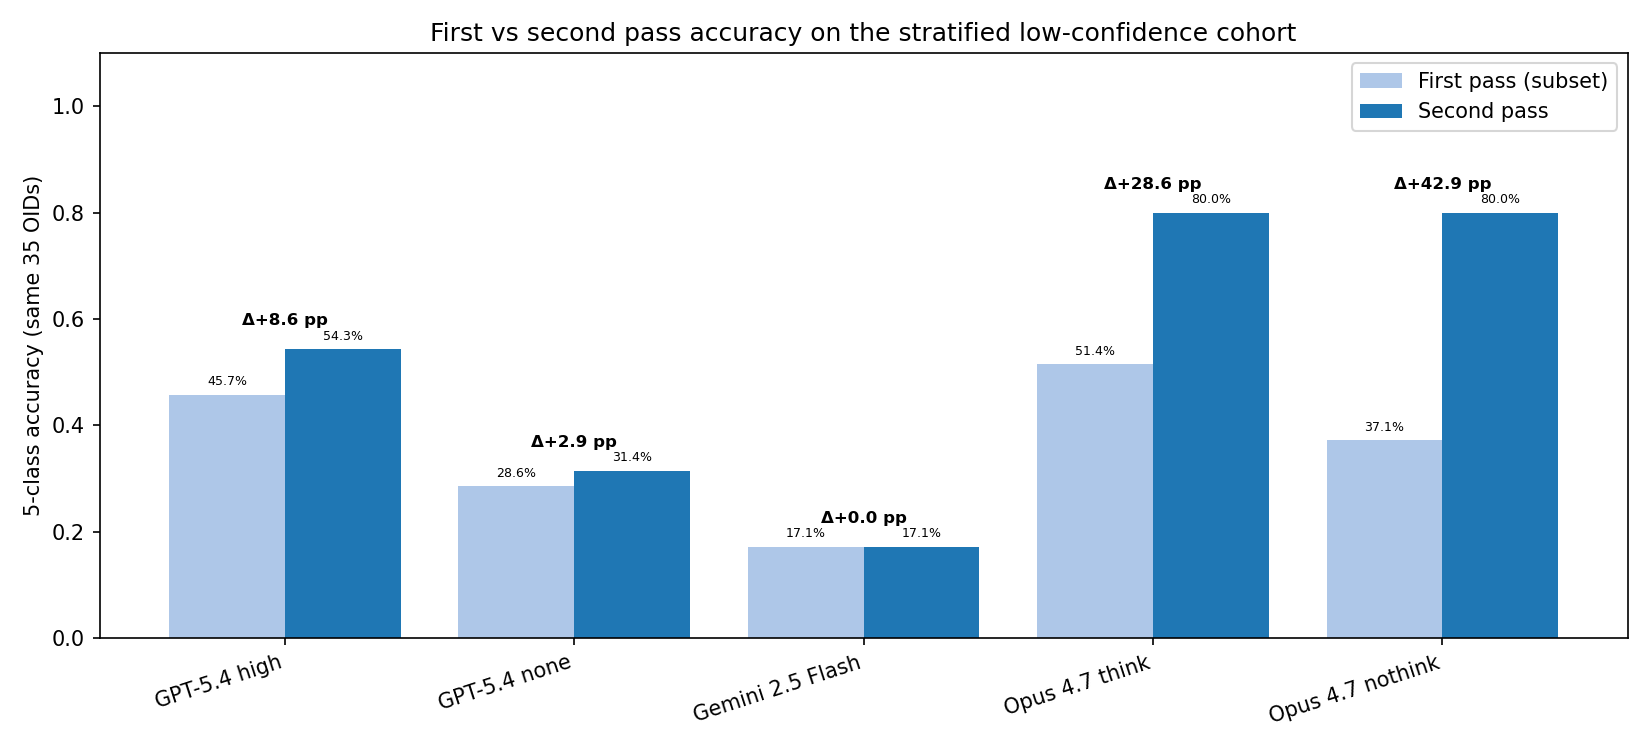
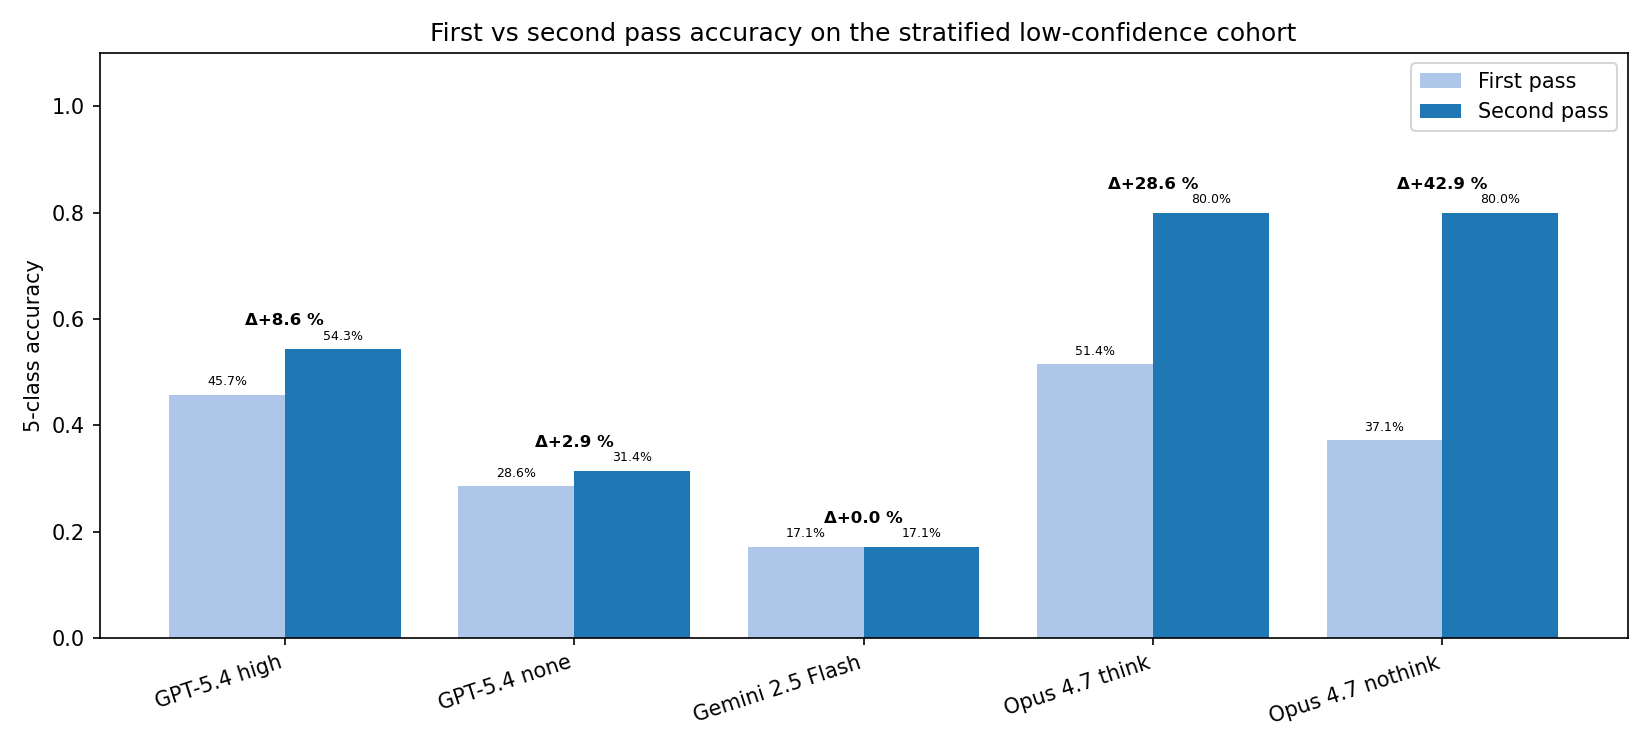
slight update on past reports

diff --git a/viz/generate_benchmark_visualization_tex.py b/viz/generate_benchmark_visualization_tex.py
@@ -1,0 +1,314 @@
+"""Generate a single self-contained `benchmark_visualization.tex` for Overleaf.
+
+Embodies each prompt and raw model output inline inside ``lstlisting`` blocks (no
+external ``.txt``). If text accidentally contains the substring ``\\end{lstlisting}``,
+it is split across chained listings so LaTeX still compiles.
+
+For the **second-rollout** prompt, the shared ``prompts.py`` system text is not
+repeated: it is shown as ``\{general\_prompt\_block\}`` with a footnote pointing
+to the general prompt listing. Only the second-trial addendum and user message
+(including embedded JSON) appear in the listing body.
+
+Literal two-character sequences ``\\n`` / ``\\r`` in that listing are still
+unescaped to real newlines before writing the TeX.
+
+  python -m viz.generate_benchmark_visualization_tex
+
+Writes (repo root): ``benchmark_visualization.tex`` only.
+"""
+from __future__ import annotations
+
+import re
+import sys
+from pathlib import Path
+
+import pandas as pd
+
+PROJECT_ROOT = Path(__file__).resolve().parent.parent
+if str(PROJECT_ROOT) not in sys.path:
+    sys.path.insert(0, str(PROJECT_ROOT))
+
+import prompts as prompts_mod  # noqa: E402
+
+from viz.build_run_folder import _load_jsonl, _reconstruct_prompts  # noqa: E402
+from viz.build_visualization_bundle import MANIFEST_PATH, OID_TARGET, RUNS  # noqa: E402
+
+TEX_PATH = PROJECT_ROOT / "benchmark_visualization.tex"
+
+LST_END = r"\end{lstlisting}"
+
+
+def _slug_label(label: str) -> str:
+    s = re.sub(r"[^a-zA-Z0-9]+", "-", label.strip()).strip("-").lower()
+    return s or "model"
+
+
+def _unescape_literal_newlines(s: str) -> str:
+    """Turn literal ``\\n`` / ``\\r`` (two-char escapes) into real newlines."""
+    if not s:
+        return s
+    return s.replace("\\r\\n", "\n").replace("\\n", "\n").replace("\\r", "\n")
+
+
+def _replace_unicode_dashes(s: str) -> str:
+    """ASCII-safe dashes for listings/pdflatex: unicode dashes and LaTeX ``0--5`` pairs."""
+    if not s:
+        return s
+    s = s.replace("\u2014", " - ")
+    for ch in (
+        "\u2013",
+        "\u2212",
+        "\u2010",
+        "\u2011",
+        "\u2012",
+        "\u2015",
+    ):
+        s = s.replace(ch, "-")
+    # Prompt source uses LaTeX-style en-dash as two hyphens (e.g. rubric "0--5").
+    s = re.sub(r"(\d)--(\d)", r"\1-\2", s)
+    while "  -  " in s:
+        s = s.replace("  -  ", " - ")
+    return s
+
+
+def _normalize_second_rollout_for_tex(s: str) -> str:
+    """Listing-friendly second-rollout text: ASCII dashes; unescape embedded JSON quotes/paths."""
+    if not s:
+        return s
+    s = _replace_unicode_dashes(s)
+    s = s.replace('\\"', '"')
+    pair = "\\\\"
+    while pair in s:
+        s = s.replace(pair, "\\")
+    return s
+
+
+def _embed_lstlisting(text: str, style: str = "prompttxt") -> str:
+    """Wrap UTF-8 text in lstlisting; chain environments if `text` contains LST_END."""
+    parts = text.split(LST_END)
+    inner: list[str] = []
+    for i, part in enumerate(parts):
+        inner.append(part)
+        if i < len(parts) - 1:
+            inner.append(LST_END + f"\n\\begin{{lstlisting}}[style={style}]")
+    body = "".join(inner)
+    return f"\\begin{{lstlisting}}[style={style}]\n{body}\n{LST_END}"
+
+
+def main() -> None:
+    manifest = pd.read_csv(MANIFEST_PATH, low_memory=False)
+    mby = manifest.set_index("oid")
+    if OID_TARGET not in mby.index:
+        raise SystemExit(f"missing {OID_TARGET} in manifest")
+    mrow = mby.loc[OID_TARGET]
+
+    sys_g, usr_g = _reconstruct_prompts(mrow, OID_TARGET, "prompts")
+    prompt_general = _replace_unicode_dashes(
+        "=== SYSTEM (prompts.py) ===\n\n"
+        + sys_g
+        + "\n\n=== USER ===\n\n"
+        + usr_g
+    )
+
+    import importlib
+
+    ab_path = (
+        PROJECT_ROOT
+        / "data_second_roll_out_ablation"
+        / "metadata"
+        / "gpt54_high_n35.csv"
+    )
+    second_rollout_tex_body: str
+    second_rollout_footnotetext: str = ""
+    if ab_path.is_file():
+        ab = pd.read_csv(ab_path, low_memory=False)
+        ex_oid = "ZTF26aargnnc"
+        if ex_oid not in set(ab["oid"].astype(str)):
+            ex_oid = str(ab["oid"].iloc[0])
+        row_ab = ab[ab["oid"] == ex_oid].iloc[0]
+        mod = importlib.import_module("prompts_second_roll_out_ablation")
+        sys_s = mod.SYSTEM_PROMPT
+        meta = mod.manifest_row_to_metadata(row_ab)
+        usr_s = mod.build_user_prompt(ex_oid, meta)
+        note = (
+            f"(Example OID `{ex_oid}` - priors not bundled for `{OID_TARGET}` in-repo; "
+            "same prompt recipe as full second-rollout ablation.)\n\n"
+        )
+        base_sys = prompts_mod.SYSTEM_PROMPT.strip()
+        use_placeholder = (
+            sys_s.startswith(base_sys)
+            and sys_s[len(base_sys) :] == mod.SECOND_ROLL_ADDENDUM
+        )
+        if use_placeholder:
+            listing_only = (
+                note
+                + mod.SECOND_ROLL_ADDENDUM
+                + "\n\n=== USER ===\n\n"
+                + usr_s
+            )
+        else:
+            listing_only = (
+                note
+                + "=== SYSTEM ===\n\n"
+                + sys_s
+                + "\n\n=== USER ===\n\n"
+                + usr_s
+            )
+        prompt_second = _normalize_second_rollout_for_tex(
+            _unescape_literal_newlines(listing_only)
+        )
+        if use_placeholder:
+            second_rollout_tex_body = (
+                r"\noindent\texttt{\{general\_prompt\_block\}}\footnotemark"
+                r"\vspace{0.6em}"
+                "\n"
+                + _embed_lstlisting(prompt_second, "prompttxt")
+            )
+            second_rollout_footnotetext = (
+                r"\footnotetext{Same text as the \texttt{prompts.py} \textbf{system} message in the "
+                r"\textit{General benchmark prompt} listing above (omitted here).}"
+            )
+        else:
+            second_rollout_tex_body = _embed_lstlisting(prompt_second, "prompttxt")
+    else:
+        prompt_second = (
+            f"[missing {ab_path.relative_to(PROJECT_ROOT)} - regenerate second-rollout metadata]"
+        )
+        second_rollout_tex_body = _embed_lstlisting(prompt_second, "prompttxt")
+
+    raw_by_prefix: dict[str, str] = {}
+    for i, (label, rel_run) in enumerate(RUNS):
+        slug = _slug_label(label)
+        prefix = f"{i + 1:02d}_{slug}"
+        jsonl = PROJECT_ROOT / rel_run / "run.jsonl"
+        if not jsonl.is_file():
+            raw_by_prefix[prefix] = f"[missing run.jsonl: {rel_run}]"
+            continue
+        rows = _load_jsonl(jsonl)
+        row = next((r for r in rows if r.get("oid") == OID_TARGET), None)
+        if row is None:
+            raw_by_prefix[prefix] = f"[no row for {OID_TARGET} in {rel_run}]"
+            continue
+        raw = row.get("raw_text") or ""
+        meta_line = (
+            f"(model={row.get('model', '?')}, "
+            f"n_prompt_tokens={row.get('n_prompt_tokens', '?')}, "
+            f"n_answer_tokens={row.get('n_answer_tokens', '?')})\n\n"
+        )
+        raw_by_prefix[prefix] = _replace_unicode_dashes(meta_line + raw)
+
+    lines: list[str] = [
+        r"\documentclass[11pt]{article}",
+        r"\usepackage[utf8]{inputenc}",
+        r"\usepackage[T1]{fontenc}",
+        r"\usepackage[a4paper,margin=0.85in]{geometry}",
+        r"\usepackage{xcolor}",
+        r"\usepackage{listings}",
+        r"\usepackage{titlesec}",
+        r"\titleformat{\section}{\normalfont\Large\bfseries\color{teal!70!black}}{\thesection}{0.6em}{}",
+        r"\titleformat{\subsection}{\normalfont\large\bfseries\color{blue!60!black}}{\thesubsection}{0.5em}{}",
+        r"\usepackage{footnote}",
+        r"\usepackage[hidelinks]{hyperref}",
+        r"\usepackage[most]{tcolorbox}",
+        r"\tcbuselibrary{breakable,listings}",
+        "",
+        r"\lstdefinestyle{prompttxt}{",
+        r"  basicstyle=\ttfamily\footnotesize,",
+        r"  breaklines=true,",
+        r"  breakatwhitespace=false,",
+        r"  columns=fullflexible,",
+        r"  keepspaces=true,",
+        r"  frame=none,",
+        r"}",
+        "",
+        r"\tcbset{",
+        r"  chatturn/.style={",
+        r"    boxrule=0.4pt,",
+        r"    arc=2pt,",
+        r"    left=6pt,",
+        r"    right=6pt,",
+        r"    top=2pt,",
+        r"    bottom=4pt,",
+        r"    titlerule=0pt,",
+        r"    toptitle=0.5mm,",
+        r"    fonttitle=\sffamily\bfseries\small,",
+        r"  },",
+        r"  chatblue/.style={",
+        r"    colback=blue!4!white,",
+        r"    colframe=blue!50!black,",
+        r"    colbacktitle=blue!50!black,",
+        r"    coltitle=white,",
+        r"  },",
+        r"  chatgreen/.style={",
+        r"    colback=green!4!white,",
+        r"    colframe=green!45!black,",
+        r"    colbacktitle=green!40!black,",
+        r"    coltitle=white,",
+        r"  },",
+        r"  chatgrey/.style={",
+        r"    colback=gray!8,",
+        r"    colframe=gray!55,",
+        r"    colbacktitle=gray!55,",
+        r"    coltitle=white,",
+        r"  },",
+        r"}",
+        "",
+        r"\NewTColorBox{chatmsg}{O{blue} m O{}}{",
+        r"  chatturn,",
+        r"  chat#1,",
+        r"  title={#2},",
+        r"  #3",
+        r"}",
+        r"\makesavenoteenv{chatmsg}",
+        "",
+        r"\title{\textbf{Benchmark prompts \& model outputs (single datapoint)}}",
+        r"\author{\texttt{ZTF26aargnnp} \quad (generated by \texttt{viz.generate\_benchmark\_visualization\_tex})}",
+        r"\date{}",
+        "",
+        r"\begin{document}",
+        r"\maketitle",
+        "",
+        r"\begin{abstract}",
+        r"Self-contained \texttt{.tex}: prompts and raw outputs are inlined in \texttt{lstlisting} "
+        r"environments (no external snippet files). Compile with \texttt{pdflatex} or "
+        r"\texttt{xelatex} if outputs contain non-Latin Unicode.",
+        r"\end{abstract}",
+        "",
+        r"\section{Prompts}",
+        "",
+        rf"\begin{{chatmsg}}[grey]{{General benchmark prompt (\texttt{{prompts.py}}) --- \texttt{{{OID_TARGET}}}}}[breakable]",
+        _embed_lstlisting(prompt_general, "prompttxt"),
+        r"\end{chatmsg}",
+        "",
+        rf"\begin{{chatmsg}}[grey]{{Second-rollout ablation prompt (\texttt{{prompts\_second\_roll\_out\_ablation.py}})}}[breakable]",
+        second_rollout_tex_body,
+        r"\end{chatmsg}",
+        second_rollout_footnotetext,
+        "",
+        r"\clearpage",
+        r"\section{Raw model outputs (\texttt{raw\_text} from each run's \texttt{run.jsonl})}",
+        "",
+    ]
+
+    colors = ["blue", "green"]
+    for i, (label, _) in enumerate(RUNS):
+        slug = _slug_label(label)
+        prefix = f"{i + 1:02d}_{slug}"
+        col = colors[i % 2]
+        safe_title = label.replace("&", r"\&")
+        body_txt = raw_by_prefix[prefix]
+        lines.append(rf"\begin{{chatmsg}}[{col}]{{{safe_title} --- raw output}}[breakable]")
+        lines.append(_embed_lstlisting(body_txt, "prompttxt"))
+        lines.append(r"\end{chatmsg}")
+        lines.append("")
+        if (i + 1) % 3 == 0:
+            lines.append(r"\clearpage")
+
+    lines.append(r"\end{document}")
+    TEX_PATH.write_text("\n".join(lines) + "\n", encoding="utf-8")
+
+    print(f"Wrote {TEX_PATH.relative_to(PROJECT_ROOT)} (single file; second-rollout: literal \\\\n → newline)")
+
+
+if __name__ == "__main__":
+    main()

diff --git a/viz/_make_charts_second_rollout_apr25.py b/viz/_make_charts_second_rollout_apr25.py
@@ -136,14 +136,14 @@ def main() -> None:
     a1 = [r[2]["accuracy_first"] for r in rows]
     a2 = [r[2]["accuracy_second"] for r in rows]
     fig, ax = plt.subplots(figsize=(11, 5))
-    b_a1 = ax.bar(x - 0.2, a1, 0.4, label="First pass (subset)", color="#aec7e8")
+    b_a1 = ax.bar(x - 0.2, a1, 0.4, label="First pass", color="#aec7e8")
     b_a2 = ax.bar(x + 0.2, a2, 0.4, label="Second pass", color="#1f77b4")
     _bar_top_labels(ax, b_a1, [f"{v * 100:.1f}%" for v in a1], y_pad=0.012, fs=6)
     _bar_top_labels(ax, b_a2, [f"{v * 100:.1f}%" for v in a2], y_pad=0.012, fs=6)
     for i, r in enumerate(rows):
         dpp = float(r[2]["net_accuracy_delta"]) * 100.0
         ax.annotate(
-            f"Δ{dpp:+.1f} pp",
+            f"Δ{dpp:+.1f} %",
             (x[i], max(a1[i], a2[i]) + 0.045),
             ha="center",
             fontsize=8,
@@ -151,7 +151,7 @@ def main() -> None:
         )
     ax.set_xticks(x)
     ax.set_xticklabels(labels, rotation=18, ha="right")
-    ax.set_ylabel("5-class accuracy (same 35 OIDs)")
+    ax.set_ylabel("5-class accuracy")
     ax.set_ylim(0, 1.1)
     ax.legend()
     ax.set_title("First vs second pass accuracy on the stratified low-confidence cohort")
